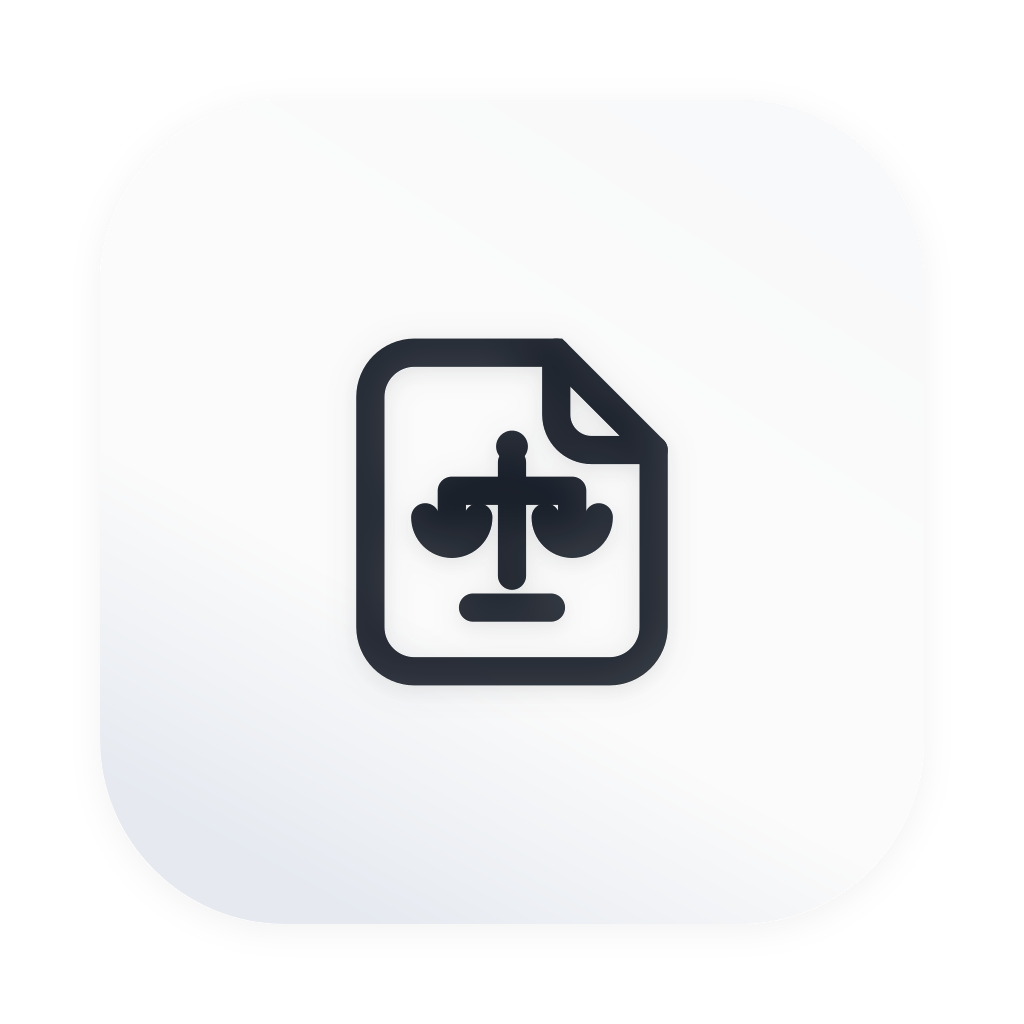
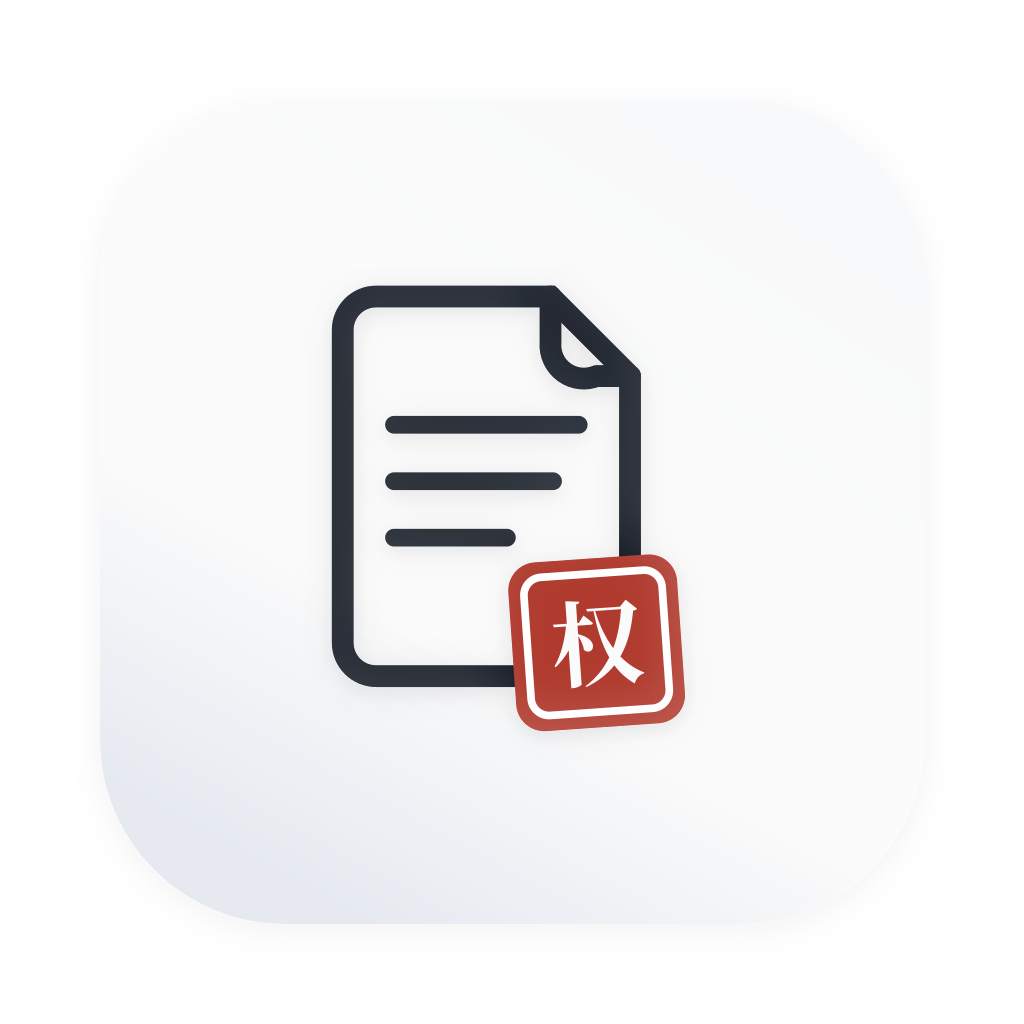
Redraw the 权聚 mark as a stamped pleading page
Replaces the document-and-scale mark with a pleading page carrying the red
权 seal, regenerates favicons, PWA icons, desktop cards and the tray icon,
and points the official client title at 权聚.

Changed region(s): [[0.3125, 0.2812, 0.6875, 0.7188]]

diff --git a/packages/client/ui-primitives/src/BrandWordmark.tsx b/packages/client/ui-primitives/src/BrandWordmark.tsx
@@ -1,5 +1,6 @@
 import type { IconProps } from './icons/props.ts'
 import { QuanJuLogo } from './QuanJuLogo.tsx'
+import { GLYPH_JU, GLYPH_QUAN } from './brandGlyphs.ts'
 
 /** Display options for the official brand wordmark. */
 export interface BrandWordmarkProps extends IconProps {
@@ -16,10 +17,6 @@ const NAME_WIDTH = 38.23
 /** Full lockup width: mark, gap, lettering. */
 const WORDMARK_WIDTH = 64.23
 
-/* 权聚 drawn from Noto Serif CJK SC Bold — a court-document face — so the
-   artwork carries its own outlines and never falls back to client fonts. */
-const GLYPH_QUAN = 'M14.632449628844117 5.568716861081654C14.259172852598093 8.274973488865323 13.605938494167553 10.906574761399789 12.523435843054084 13.295546129374337C11.123647932131497 11.149204665959704 10.078472958642632 8.53626723223754 9.406574761399789 5.568716861081654ZM7.633510074231178 5.046129374337221 7.801484623541889 5.568716861081654H9.070625662778369C9.555885471898199 9.394803817603393 10.339766702014847 12.548992576882291 11.590243902439026 15.105938494167551C10.321102863202547 17.252279957582186 8.641357370095442 19.118663838812303 6.420360551431602 20.555779427359493L6.588335100742313 20.742417815482504C9.126617179215271 19.71590668080594 11.030328738069992 18.353446447507956 12.504772004241783 16.767020148462354C13.531283138918347 18.372110286320257 14.800424178154827 19.678579003181337 16.349522799575823 20.7050901378579C16.72279957582185 19.659915164369036 17.506680805938498 18.950689289501593 18.34655355249205 18.80137857900318L18.421208907741253 18.61474019088017C16.685471898197246 17.83085896076352 15.15503711558855 16.617709437963946 13.829904559915166 15.068610816542948C15.64029692470838 12.399681866383881 16.517497348886536 9.264156945917286 17.040084835630967 6.035312831389183C17.506680805938498 5.97932131495228 17.71198303287381 5.923329798515375 17.842629904559917 5.699363732767761L15.677624602332981 3.7209968186638385L14.445811240721104 5.046129374337221ZM3.527465535524921 3.1984093319194056V7.73372216330859H0.7278897136797456L0.8772004241781549 8.274973488865323H3.3221633085896083C2.836903499469778 11.0932131495228 1.9037115588547193 14.004772004241783 0.46659597030752925 16.113785790031812L0.671898197242842 16.33775185577943C1.7917285259809121 15.385896076352068 2.743584305408272 14.322057264050901 3.527465535524921 13.127571580063627V20.779745493107107H3.956733828207848C4.759278897136798 20.779745493107107 5.655143160127254 20.35047720042418 5.655143160127254 20.126511134676566V10.383987274655356C6.121739130434784 11.186532343584306 6.55100742311771 12.306362672322376 6.588335100742313 13.239554612937434C8.230752916224816 14.807317073170733 10.283775185577944 11.466489925768823 5.655143160127254 9.992046659597031V8.274973488865323H8.286744432661719C8.548038176033936 8.274973488865323 8.753340402969249 8.181654294803817 8.79066808059385 7.976352067868504C8.13743372216331 7.304453870625663 6.980275715800637 6.3152704135737 6.980275715800637 6.3152704135737L5.972428419936374 7.73372216330859H5.636479321314953L5.655143160127254 4.0009544008483555C6.159066808059386 3.9262990455991513 6.308377518557795 3.7583244962884397 6.345705196182397 3.4783669141039226Z'
-const GLYPH_JU = 'M36.473276776246024 15.105938494167551 34.15896076352068 13.426193001060446C33.65503711558855 14.060763520678686 32.703181336161194 15.08727465535525 31.807317073170736 15.908483563096501C31.023435843054084 15.23658536585366 30.388865323435844 14.415376458112409 29.940933191940616 13.407529162248146C31.58335100742312 13.314209968186638 33.09512195121951 13.202226935312833 34.364262990456 13.071580063626723C34.92417815482503 13.314209968186638 35.353446447507956 13.314209968186638 35.558748674443265 13.146235418875929L33.71102863202545 11.186532343584306C30.78080593849417 11.989077412513256 25.218981972428423 12.903605514316013 20.888971367974552 13.258218451749736L20.944962884411453 13.575503711558856C22.30742311770944 13.612831389183459 23.76320254506893 13.612831389183459 25.218981972428423 13.575503711558856C24.136479321314955 14.583351007423119 22.19544008483563 15.833828207847297 20.478366914103926 16.580381760339343L20.627677624602335 16.804347826086957C22.904665959703078 16.50572640509014 25.368292682926832 15.777836691410393 26.842735949098625 15.012619300106046C27.25334040296925 15.124602332979853 27.42131495227996 15.068610816542948 27.551961823966067 14.900636267232239L25.760233297985156 13.575503711558856L27.73860021208908 13.50084835630965V17.214952279957583L25.816224814422057 15.8898197242842C24.73372216330859 17.28960763520679 22.45673382820785 19.025344644750795 20.273064687168613 20.03319194061506L20.42237539766702 20.257158006362673C23.10996818663839 19.809225874867447 25.816224814422057 18.76405090137858 27.439978791092262 17.64422057264051C27.551961823966067 17.681548250265113 27.663944856839876 17.700212089077414 27.73860021208908 17.700212089077414V20.761081654294806H28.149204665959704C29.250371155885475 20.761081654294806 29.940933191940616 20.275821845174974 29.940933191940616 20.145174973488867V14.471367974549311C31.042099681866386 17.66288441145281 33.039130434782614 19.37995758218452 35.932025450689295 20.574443266171794C36.21198303287381 19.54793213149523 36.80922587486745 18.876033934252387 37.667762460233305 18.670731707317074L37.68642629904561 18.44676564156946C35.70805938494168 18.054825026511136 33.82301166489926 17.401590668080594 32.329904559915164 16.31908801696713C33.56171792152705 16.02046659597031 34.84952279957582 15.628525980911984 35.76405090137858 15.273913043478261C36.17465535524921 15.385896076352068 36.361293743372215 15.273913043478261 36.473276776246024 15.105938494167551ZM28.541145281018032 3.1610816542948026 27.439978791092262 4.486214209968185H20.441039236479323L20.59034994697773 5.02746553552492H22.083457051961826V10.365323435843054L20.1237539766702 10.477306468716861L21.243584305408273 12.567656415694593C21.430222693531285 12.53032873806999 21.616861081654296 12.381018027571582 21.7288441145281 12.157051961823967C23.61389183457052 11.746447507953341 25.218981972428423 11.391834570519618 26.581442205726407 11.074549310710498V12.119724284199364H26.93605514316013C27.981230116648995 12.119724284199364 28.597136797454933 11.783775185577943 28.615800636267235 11.671792152704136V10.570625662778367L30.61283138918346 10.029374337221633V9.730752916224814L28.615800636267235 9.898727465535526V5.02746553552492H30.052916224814425C30.31420996818664 5.02746553552492 30.500848356309653 4.934146341463414 30.556839872746558 4.728844114528101C29.791622481442207 4.07560975609756 28.541145281018032 3.1610816542948026 28.541145281018032 3.1610816542948026ZM24.08048780487805 10.234676564156945V8.797560975609755H26.581442205726407V10.048038176033934ZM24.08048780487805 5.02746553552492H26.581442205726407V6.408589607635207H24.08048780487805ZM24.08048780487805 8.274973488865323V6.94984093319194H26.581442205726407V8.274973488865323ZM29.959597030752917 7.09915164369035 29.866277836691413 7.3604453870625655C30.78080593849417 7.827041357370096 31.639342523860023 8.368292682926828 32.36723223753977 8.909544008483563C31.490031813361615 9.936055143160127 30.35153764581124 10.813255567338283 29.00774125132556 11.485153764581124L29.138388123011666 11.746447507953341C30.81813361611877 11.279851537645811 32.236585365853664 10.589289501590669 33.393743372216335 9.730752916224814C34.28960763520679 10.477306468716861 34.94284199363733 11.223860021208907 35.29745493107105 11.765111346765643C36.80922587486745 12.548992576882291 37.966383881230115 10.29066808059385 34.737539766702014 8.53626723223754C35.37211028632026 7.845705196182397 35.89469777306469 7.080487804878048 36.286638388123016 6.259278897136797C36.71590668080594 6.221951219512194 36.88388123011666 6.165959703075291 37.01452810180276 5.97932131495228L35.14814422057265 4.411558854718981L34.04697773064687 5.4753976670201485H29.17571580063627L29.343690349946982 5.997985153764581H34.084305408271476C33.84167550371156 6.651219512195121 33.524390243902445 7.26712619300106 33.151113467656415 7.864369034994697C32.27391304347826 7.565747613997878 31.228738069989397 7.304453870625663 29.959597030752917 7.09915164369035Z'
 
 /**
  * Render the full brand wordmark.

diff --git a/packages/client/ui-primitives/src/brandGlyphs.ts b/packages/client/ui-primitives/src/brandGlyphs.ts
@@ -1,0 +1,6 @@
+/* 权聚 lettering outlines: Noto Serif CJK SC Bold (SIL OFL) converted to
+   paths, so the brand art never falls back to client fonts. Coordinates
+   live in the 24-unit brand space shared by BrandWordmark and the seal
+   inside QuanJuLogo. */
+export const GLYPH_QUAN = 'M14.632449628844117 5.568716861081654C14.259172852598093 8.274973488865323 13.605938494167553 10.906574761399789 12.523435843054084 13.295546129374337C11.123647932131497 11.149204665959704 10.078472958642632 8.53626723223754 9.406574761399789 5.568716861081654ZM7.633510074231178 5.046129374337221 7.801484623541889 5.568716861081654H9.070625662778369C9.555885471898199 9.394803817603393 10.339766702014847 12.548992576882291 11.590243902439026 15.105938494167551C10.321102863202547 17.252279957582186 8.641357370095442 19.118663838812303 6.420360551431602 20.555779427359493L6.588335100742313 20.742417815482504C9.126617179215271 19.71590668080594 11.030328738069992 18.353446447507956 12.504772004241783 16.767020148462354C13.531283138918347 18.372110286320257 14.800424178154827 19.678579003181337 16.349522799575823 20.7050901378579C16.72279957582185 19.659915164369036 17.506680805938498 18.950689289501593 18.34655355249205 18.80137857900318L18.421208907741253 18.61474019088017C16.685471898197246 17.83085896076352 15.15503711558855 16.617709437963946 13.829904559915166 15.068610816542948C15.64029692470838 12.399681866383881 16.517497348886536 9.264156945917286 17.040084835630967 6.035312831389183C17.506680805938498 5.97932131495228 17.71198303287381 5.923329798515375 17.842629904559917 5.699363732767761L15.677624602332981 3.7209968186638385L14.445811240721104 5.046129374337221ZM3.527465535524921 3.1984093319194056V7.73372216330859H0.7278897136797456L0.8772004241781549 8.274973488865323H3.3221633085896083C2.836903499469778 11.0932131495228 1.9037115588547193 14.004772004241783 0.46659597030752925 16.113785790031812L0.671898197242842 16.33775185577943C1.7917285259809121 15.385896076352068 2.743584305408272 14.322057264050901 3.527465535524921 13.127571580063627V20.779745493107107H3.956733828207848C4.759278897136798 20.779745493107107 5.655143160127254 20.35047720042418 5.655143160127254 20.126511134676566V10.383987274655356C6.121739130434784 11.186532343584306 6.55100742311771 12.306362672322376 6.588335100742313 13.239554612937434C8.230752916224816 14.807317073170733 10.283775185577944 11.466489925768823 5.655143160127254 9.992046659597031V8.274973488865323H8.286744432661719C8.548038176033936 8.274973488865323 8.753340402969249 8.181654294803817 8.79066808059385 7.976352067868504C8.13743372216331 7.304453870625663 6.980275715800637 6.3152704135737 6.980275715800637 6.3152704135737L5.972428419936374 7.73372216330859H5.636479321314953L5.655143160127254 4.0009544008483555C6.159066808059386 3.9262990455991513 6.308377518557795 3.7583244962884397 6.345705196182397 3.4783669141039226Z'
+export const GLYPH_JU = 'M36.473276776246024 15.105938494167551 34.15896076352068 13.426193001060446C33.65503711558855 14.060763520678686 32.703181336161194 15.08727465535525 31.807317073170736 15.908483563096501C31.023435843054084 15.23658536585366 30.388865323435844 14.415376458112409 29.940933191940616 13.407529162248146C31.58335100742312 13.314209968186638 33.09512195121951 13.202226935312833 34.364262990456 13.071580063626723C34.92417815482503 13.314209968186638 35.353446447507956 13.314209968186638 35.558748674443265 13.146235418875929L33.71102863202545 11.186532343584306C30.78080593849417 11.989077412513256 25.218981972428423 12.903605514316013 20.888971367974552 13.258218451749736L20.944962884411453 13.575503711558856C22.30742311770944 13.612831389183459 23.76320254506893 13.612831389183459 25.218981972428423 13.575503711558856C24.136479321314955 14.583351007423119 22.19544008483563 15.833828207847297 20.478366914103926 16.580381760339343L20.627677624602335 16.804347826086957C22.904665959703078 16.50572640509014 25.368292682926832 15.777836691410393 26.842735949098625 15.012619300106046C27.25334040296925 15.124602332979853 27.42131495227996 15.068610816542948 27.551961823966067 14.900636267232239L25.760233297985156 13.575503711558856L27.73860021208908 13.50084835630965V17.214952279957583L25.816224814422057 15.8898197242842C24.73372216330859 17.28960763520679 22.45673382820785 19.025344644750795 20.273064687168613 20.03319194061506L20.42237539766702 20.257158006362673C23.10996818663839 19.809225874867447 25.816224814422057 18.76405090137858 27.439978791092262 17.64422057264051C27.551961823966067 17.681548250265113 27.663944856839876 17.700212089077414 27.73860021208908 17.700212089077414V20.761081654294806H28.149204665959704C29.250371155885475 20.761081654294806 29.940933191940616 20.275821845174974 29.940933191940616 20.145174973488867V14.471367974549311C31.042099681866386 17.66288441145281 33.039130434782614 19.37995758218452 35.932025450689295 20.574443266171794C36.21198303287381 19.54793213149523 36.80922587486745 18.876033934252387 37.667762460233305 18.670731707317074L37.68642629904561 18.44676564156946C35.70805938494168 18.054825026511136 33.82301166489926 17.401590668080594 32.329904559915164 16.31908801696713C33.56171792152705 16.02046659597031 34.84952279957582 15.628525980911984 35.76405090137858 15.273913043478261C36.17465535524921 15.385896076352068 36.361293743372215 15.273913043478261 36.473276776246024 15.105938494167551ZM28.541145281018032 3.1610816542948026 27.439978791092262 4.486214209968185H20.441039236479323L20.59034994697773 5.02746553552492H22.083457051961826V10.365323435843054L20.1237539766702 10.477306468716861L21.243584305408273 12.567656415694593C21.430222693531285 12.53032873806999 21.616861081654296 12.381018027571582 21.7288441145281 12.157051961823967C23.61389183457052 11.746447507953341 25.218981972428423 11.391834570519618 26.581442205726407 11.074549310710498V12.119724284199364H26.93605514316013C27.981230116648995 12.119724284199364 28.597136797454933 11.783775185577943 28.615800636267235 11.671792152704136V10.570625662778367L30.61283138918346 10.029374337221633V9.730752916224814L28.615800636267235 9.898727465535526V5.02746553552492H30.052916224814425C30.31420996818664 5.02746553552492 30.500848356309653 4.934146341463414 30.556839872746558 4.728844114528101C29.791622481442207 4.07560975609756 28.541145281018032 3.1610816542948026 28.541145281018032 3.1610816542948026ZM24.08048780487805 10.234676564156945V8.797560975609755H26.581442205726407V10.048038176033934ZM24.08048780487805 5.02746553552492H26.581442205726407V6.408589607635207H24.08048780487805ZM24.08048780487805 8.274973488865323V6.94984093319194H26.581442205726407V8.274973488865323ZM29.959597030752917 7.09915164369035 29.866277836691413 7.3604453870625655C30.78080593849417 7.827041357370096 31.639342523860023 8.368292682926828 32.36723223753977 8.909544008483563C31.490031813361615 9.936055143160127 30.35153764581124 10.813255567338283 29.00774125132556 11.485153764581124L29.138388123011666 11.746447507953341C30.81813361611877 11.279851537645811 32.236585365853664 10.589289501590669 33.393743372216335 9.730752916224814C34.28960763520679 10.477306468716861 34.94284199363733 11.223860021208907 35.29745493107105 11.765111346765643C36.80922587486745 12.548992576882291 37.966383881230115 10.29066808059385 34.737539766702014 8.53626723223754C35.37211028632026 7.845705196182397 35.89469777306469 7.080487804878048 36.286638388123016 6.259278897136797C36.71590668080594 6.221951219512194 36.88388123011666 6.165959703075291 37.01452810180276 5.97932131495228L35.14814422057265 4.411558854718981L34.04697773064687 5.4753976670201485H29.17571580063627L29.343690349946982 5.997985153764581H34.084305408271476C33.84167550371156 6.651219512195121 33.524390243902445 7.26712619300106 33.151113467656415 7.864369034994697C32.27391304347826 7.565747613997878 31.228738069989397 7.304453870625663 29.959597030752917 7.09915164369035Z'

diff --git a/scripts/client-build-environment.client.spec.ts b/scripts/client-build-environment.client.spec.ts
@@ -85,7 +85,7 @@ describe('client build environment', () => {
     const expected = {
       DSH_CLIENT_BUILD_PROFILE: 'official',
       DSH_CLIENT_COMMIT_HASH: COMMIT_HASH.slice(0, 7),
-      DSH_CLIENT_TITLE: 'DeepSeek Harness',
+      DSH_CLIENT_TITLE: '权聚',
       DSH_CLIENT_VERSION: '1.2.3',
     } as const
 
@@ -115,7 +115,7 @@ describe('client build environment', () => {
     expect(resolveClientBuildEnvironment(parent)).toEqual({
       DSH_CLIENT_BUILD_PROFILE: 'official',
       DSH_CLIENT_COMMIT_HASH: COMMIT_HASH.slice(0, 7),
-      DSH_CLIENT_TITLE: 'DeepSeek Harness',
+      DSH_CLIENT_TITLE: '权聚',
       DSH_CLIENT_VERSION: '1.2.3',
     })
     expect(() => {
@@ -131,13 +131,13 @@ describe('client build environment', () => {
     expect(clientBuildProcessEnvironment(parent, {
       DSH_CLIENT_BUILD_PROFILE: 'official',
       DSH_CLIENT_COMMIT_HASH: COMMIT_HASH.slice(0, 7),
-      DSH_CLIENT_TITLE: 'DeepSeek Harness',
+      DSH_CLIENT_TITLE: '权聚',
       DSH_CLIENT_VERSION: '1.2.3',
     })).toEqual({
       PATH: '/bin',
       DSH_CLIENT_BUILD_PROFILE: 'official',
       DSH_CLIENT_COMMIT_HASH: COMMIT_HASH.slice(0, 7),
-      DSH_CLIENT_TITLE: 'DeepSeek Harness',
+      DSH_CLIENT_TITLE: '权聚',
       DSH_CLIENT_VERSION: '1.2.3',
     })
     expect(repositoryCommitHash('/unused', { DSH_CLIENT_COMMIT_HASH: COMMIT_HASH })).toBe(COMMIT_HASH.slice(0, 7))
@@ -147,7 +147,7 @@ describe('client build environment', () => {
     const parent = {
       DSH_BUILD_CLIENT_PROFILE: 'official',
       DSH_CLIENT_BUILD_PROFILE: 'official',
-      DSH_CLIENT_TITLE: 'DeepSeek Harness',
+      DSH_CLIENT_TITLE: '权聚',
       DSH_CLIENT_COMMIT_HASH: COMMIT_HASH.slice(0, 7),
       DSH_CLIENT_VERSION: '1.2.3',
       DSH_CLIENT_GIT_DIRTY: dirty,
@@ -165,7 +165,7 @@ describe('client build environment', () => {
     expect(resolveClientBuildEnvironment({ ...parent, ...local }, 'official')).toEqual({
       DSH_CLIENT_BUILD_PROFILE: 'official',
       DSH_CLIENT_COMMIT_HASH: COMMIT_HASH.slice(0, 7),
-      DSH_CLIENT_TITLE: 'DeepSeek Harness',
+      DSH_CLIENT_TITLE: '权聚',
       DSH_CLIENT_VERSION: '1.2.3',
     })
   })
@@ -196,7 +196,7 @@ describe('client build environment', () => {
     expect(officialClientBuildEnvironment(fixtureRoot)).toEqual({
       DSH_CLIENT_BUILD_PROFILE: 'official',
       DSH_CLIENT_COMMIT_HASH: commit,
-      DSH_CLIENT_TITLE: 'DeepSeek Harness',
+      DSH_CLIENT_TITLE: '权聚',
       DSH_CLIENT_VERSION: '1.2.3-rc.4',
     })
 
@@ -305,7 +305,7 @@ describe('client build environment', () => {
     const officialEnvironment = {
       DSH_CLIENT_BUILD_PROFILE: 'official',
       DSH_CLIENT_COMMIT_HASH: COMMIT_HASH.slice(0, 7),
-      DSH_CLIENT_TITLE: 'DeepSeek Harness',
+      DSH_CLIENT_TITLE: '权聚',
       DSH_CLIENT_VERSION: '1.2.3',
     }
     const official = buildFixture(officialEnvironment)

diff --git a/packages/client/ui-primitives/src/QuanJuLogo.tsx b/packages/client/ui-primitives/src/QuanJuLogo.tsx
@@ -1,11 +1,17 @@
 import type { IconProps } from './icons/props.ts'
+import { GLYPH_QUAN } from './brandGlyphs.ts'
 
 /** Native viewBox of the 权聚 mark (square). */
 export const QUANJU_LOGO_VIEWBOX = { width: 24, height: 24 }
 
+/* A pleading page — folded corner, three brief lines — carrying the red 权
+   seal that makes a document official. */
+const PAGE =
+  'M13.407 4.125H7.032A1.219 1.219 0 0 0 5.813 5.344V16.781A1.219 1.219 0 0 0 7.032 18H15.094A1.219 1.219 0 0 0 16.313 16.781V7.031Z'
+const FOLD = 'M13.407 4.125V5.810A1.221 1.221 0 0 0 15.092 7.031H16.313'
+
 /**
- * Render the 权聚 mark: a pleading document whose folded page frames a balance
- * scale — the written brief and the weighing of rights in one glyph.
+ * Render the 权聚 mark: a pleading document stamped with the red 权 seal.
  * @param props.size - width in px (default 24; the mark is square).
  * @param props.className - extra class for layout placement.
  * @returns the mark svg (aria-hidden; pair with the wordmark for accessibility).
@@ -20,13 +26,31 @@ export function QuanJuLogo({ size = 24, className }: IconProps) {
       fill="none"
       aria-hidden="true"
     >
-      <g stroke="currentColor" strokeWidth="1.6" strokeLinecap="round" strokeLinejoin="round">
-        <path d="M14.5 3H6.5A2.5 2.5 0 0 0 4 5.5v13A2.5 2.5 0 0 0 6.5 21h11a2.5 2.5 0 0 0 2.5-2.5V8.5L14.5 3Z" />
-        <path d="M14.5 3v3.5A2 2 0 0 0 16.5 8.5H20" />
-        <path d="M12 9.2v1.6M8.6 10.8h6.8M12 10.8v4.8M9.8 17.4h4.4M8.6 10.8v1.5M15.4 10.8v1.5" />
-        <path d="M7.1 12.3a1.5 1.5 0 0 0 3 0M13.9 12.3a1.5 1.5 0 0 0 3 0" />
+      <g stroke="currentColor" strokeWidth="0.8" strokeLinecap="round" strokeLinejoin="round">
+        <path d={PAGE} />
+        <path d={FOLD} />
       </g>
-      <circle cx="12" cy="8.3" r="0.9" fill="currentColor" />
+      <g stroke="currentColor" strokeWidth="0.65" strokeLinecap="round">
+        <path d="M7.688 8.813h6.75" />
+        <path d="M7.688 10.875h5.813" />
+        <path d="M7.688 12.938h4.125" />
+      </g>
+      <g transform="rotate(-4 15.094 16.781)">
+        <rect x="12" y="13.688" width="6.188" height="6.188" rx="1.031" fill="#B03A2E" />
+        <rect
+          x="12.563"
+          y="14.25"
+          width="5.063"
+          height="5.063"
+          rx="0.656"
+          fill="none"
+          stroke="#FFFFFF"
+          strokeWidth="0.281"
+        />
+        <g fill="#FFFFFF" transform="translate(13.415 14.608) scale(0.1813)">
+          <path d={GLYPH_QUAN} />
+        </g>
+      </g>
     </svg>
   )
 }

diff --git a/packages/client/ui-primitives/tests/icons.client.spec.tsx b/packages/client/ui-primitives/tests/icons.client.spec.tsx
@@ -265,14 +265,16 @@ describe('product icon set', () => {
 })
 
 describe('QuanJuLogo', () => {
-  it('renders the document-scale mark in currentColor at a square ratio', () => {
+  it('renders the stamped pleading page in currentColor at a square ratio', () => {
     const { container } = render(<primitives.QuanJuLogo />)
     const svg = container.querySelector('svg')!
     expect(svg.getAttribute('width')).toBe('24')
     expect(svg.getAttribute('height')).toBe('24')
     expect(svg.getAttribute('viewBox')).toBe('0 0 24 24')
-    expect(container.querySelectorAll('path')).toHaveLength(4)
+    expect(container.querySelectorAll('path')).toHaveLength(6)
+    expect(container.querySelectorAll('rect')).toHaveLength(2)
     expect(container.innerHTML).toContain('currentColor')
+    expect(container.innerHTML).toContain('#B03A2E')
   })
 })
 

diff --git a/scripts/dev-web.spec.ts b/scripts/dev-web.spec.ts
@@ -119,7 +119,7 @@ it('samples one local environment at startup without validating watcher outputs'
     writeClientBuildRecord(root, {
       DSH_CLIENT_BUILD_PROFILE: 'official',
       DSH_CLIENT_COMMIT_HASH: 'fffffff',
-      DSH_CLIENT_TITLE: 'DeepSeek Harness',
+      DSH_CLIENT_TITLE: '权聚',
       DSH_CLIENT_VERSION: '1.2.2',
     })
     await writeFile(join(root, 'packages/client/example/lib/client.js'), 'module.exports = { changed: true }\n')

diff --git a/scripts/client-build-environment.ts b/scripts/client-build-environment.ts
@@ -19,7 +19,7 @@ export const CLIENT_BUILD_PROFILE_SELECTOR = 'DSH_BUILD_CLIENT_PROFILE'
 /** Public client environment required by official DSH artifacts. */
 const OFFICIAL_CLIENT_BUILD_ENVIRONMENT = {
   DSH_CLIENT_BUILD_PROFILE: 'official',
-  DSH_CLIENT_TITLE: 'DeepSeek Harness',
+  DSH_CLIENT_TITLE: '权聚',
 } as const
 
 /** Public variable carrying the source commit embedded in client artifacts. */
